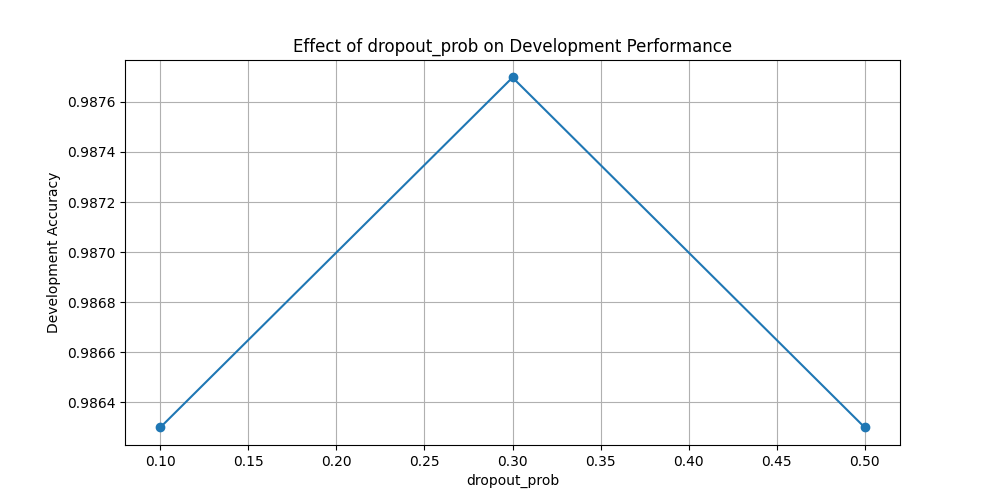
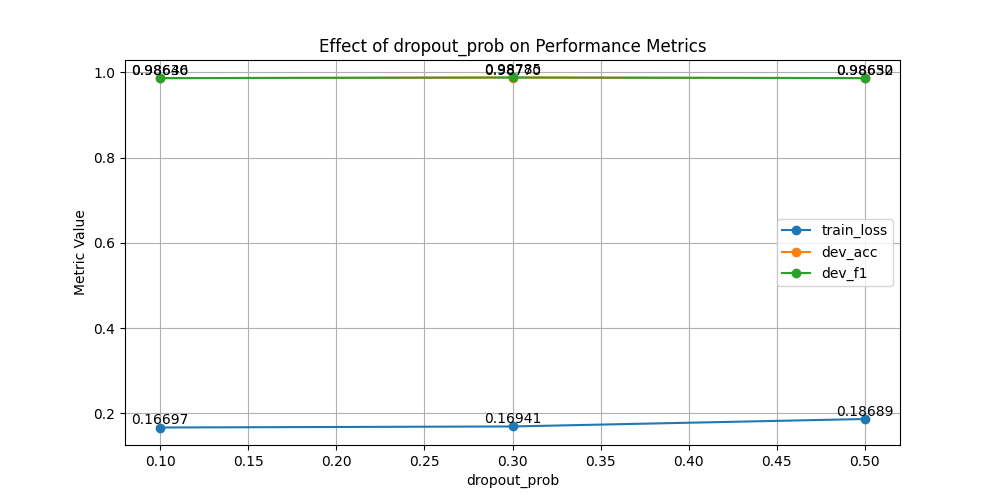
modify plot metrics

diff --git a/_lstm/plot.py b/_lstm/plot.py
@@ -68,8 +68,13 @@ def plot_model_info(model_id, model_info, save=True):
     print(pd.DataFrame(hyperparameters.items(), columns=['Parameter', 'Value']))
 
 
-def plot_hyperparameter_tuning(model_info_path, hyperparameter_name, default_hyperparameters, save=True):
-   # Load all model information
+def plot_hyperparameter_tuning(
+        model_info_path, 
+        hyperparameter_name, 
+        default_hyperparameters, 
+        metrics=['dev_acc', 'dev_f1'],
+        save=True):
+    # Load all model information
     all_model_info = load_json(model_info_path)
 
     # Filter models based on criteria
@@ -87,28 +92,32 @@ def plot_hyperparameter_tuning(model_info_path, hyperparameter_name, default_hyp
         return
 
     # Prepare data for plotting
+    plot_data = {metric: [] for metric in metrics}
     hyperparameter_values = []
-    dev_performance = []
 
     for model_id, model_info in filtered_models.items():
         hyperparameter_values.append(model_info['hyperparameters'][hyperparameter_name])
-        dev_performance.append(max([epoch['dev_acc'] for epoch in model_info['performance']['train_dev']]))
+        for metric in metrics:
+            plot_data[metric].append(max([epoch[metric] for epoch in model_info['performance']['train_dev']]))
 
     # Create DataFrame for plotting
-    df = pd.DataFrame({
-        'Hyperparameter Value': hyperparameter_values,
-        'Development Accuracy': dev_performance
-    })
+    df = pd.DataFrame({'Hyperparameter Value': hyperparameter_values})
+    for metric in metrics:
+        df[metric] = plot_data[metric]
 
     # Sort DataFrame based on hyperparameter value
     df = df.sort_values(by='Hyperparameter Value')
 
     # Plotting
     plt.figure(figsize=(10, 5))
-    plt.plot(df['Hyperparameter Value'], df['Development Accuracy'], marker='o')
+    for metric in metrics:
+        plt.plot(df['Hyperparameter Value'], df[metric], marker='o', label=metric)
+        for x, y in zip(df['Hyperparameter Value'], df[metric]):
+            plt.text(x, y, f'{y:.5f}', ha='center', va='bottom')
     plt.xlabel(hyperparameter_name)
-    plt.ylabel('Development Accuracy')
-    plt.title(f'Effect of {hyperparameter_name} on Development Performance')
+    plt.ylabel('Metric Value')
+    plt.title(f'Effect of {hyperparameter_name} on Performance Metrics')
+    plt.legend()
     plt.grid(True)
     if save:
         plt.savefig(f'figures/LSTM_hyperparameter_tuning-{hyperparameter_name}.png')

diff --git a/lstm.py b/lstm.py
@@ -240,6 +240,7 @@ def main():
     # Subparser for hyperparameter tuning
     tune_parser = subparsers.add_parser('tune', parents=[parent_parser], help='Hyperparameter tuning')
     tune_parser.add_argument('--hyperparameter', '-hp', required=True, help='Hyperparameter to tune', choices=default_hyperparameters.keys())
+    tune_parser.add_argument('--metrics', '-me', nargs='+', help='Metrics to plot', choices=['dev_acc', 'dev_prec', 'dev_rec', 'dev_f1'], default=['dev_acc', 'dev_f1'])
     
     OPT = parser.parse_args()
 
@@ -249,7 +250,7 @@ def main():
     elif OPT.mode == 'run':
         run_model(OPT, device, model_info_path)
     elif OPT.mode == 'tune':
-        plot_hyperparameter_tuning(model_info_path, OPT.hyperparameter, default_hyperparameters)
+        plot_hyperparameter_tuning(model_info_path, OPT.hyperparameter, default_hyperparameters, metrics=OPT.metrics)
     else:
         print("Invalid mode")
         parser.print_help()
